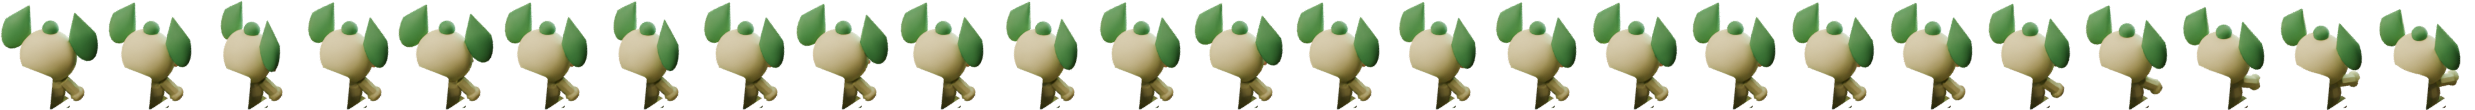
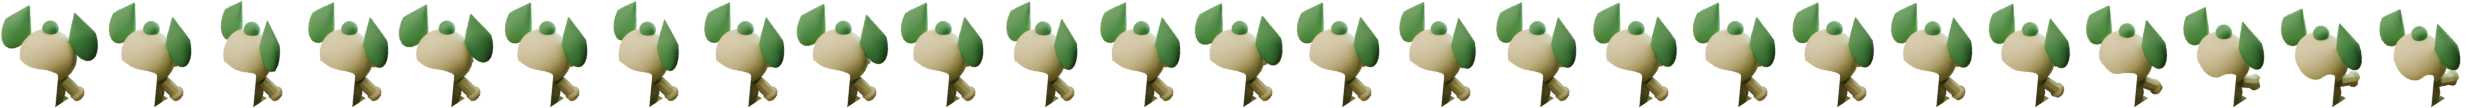
fix: Claaky3D seated on chair, whiteboard spot and sleep blanket

diff --git a/docs/Claaky3D/claaky_etats.py b/docs/Claaky3D/claaky_etats.py
@@ -38,7 +38,7 @@ FLOOR, RUG = .075, .12
 POINTS = {
     'bureau_assis': (.15, 1.28, .88),
     'centre': (.10, -.30, RUG),
-    'tableau_regard': (-1.15, 1.05, RUG),  # en retrait : il regarde le tableau sans le toucher
+    'tableau_regard': (-1.80, 1.05, RUG),  # devant la commode, face au tableau blanc
     # Lit le long du bord avant, tête contre le mur gauche : origine à 0,94 de la tête (sur l'oreiller).
     'lit_couche': (cb.BED[0] + .14, cb.BED[1], 1.02),
 }
@@ -66,7 +66,7 @@ def build_room():
     # Le chevet est déjà construit une seule fois par bed_and_rug().
     cb.collection('09 · Accessoires des états')
     bx, by = cb.BED
-    return cb.cube('Couverture Claaky (sommeil)', (bx + .11, by, 1.02), (1.30, 1.05, .52), 'teal', .2)
+    return cb.cube('Couverture Claaky (sommeil)', (bx + .22, by, .97), (1.40, 1.50, .42), 'teal', .16)
 
 
 def mug_builder():

diff --git a/docs/Claaky3D/claaky_bureau.py b/docs/Claaky3D/claaky_bureau.py
@@ -393,7 +393,7 @@ def desk():
 def chair_and_character():
     global ROOT
     collection('05 · Fauteuil')
-    cx,cy=.15,1.13
+    cx,cy=.15,1.28  # sous Claaky assis (POINTS bureau_assis)
     cyl('Fauteuil vérin',(cx,cy,.42),.065,.60,'metal')
     for i in range(5):
         a=i*math.tau/5

diff --git a/docs/Claaky3D/etat-actuel-claaky3d.md b/docs/Claaky3D/etat-actuel-claaky3d.md
@@ -190,3 +190,11 @@ Non vérifié : les planches réexportées n’ont pas été contrôlées une à
 - La couverture du sommeil est rendue avec le sprite (plus en holdout).
 - Vérifié : aperçus Blender des quatre lieux, export complet, contrôle visuel de `decor.png` et `dormir.png`, 17 tests unitaires, `npx tsc --noEmit`, `npm run build`.
 - Non vérifié : rendu dans Tauri (relancer `npm run tauri dev`), téléportation et fondu à l’écran.
+
+### Contrôle des 7 animations sur le décor (24/10)
+
+Chaque planche a été superposée au décor (première image et image du milieu) :
+- `travail_clavier`, `autorisation`, `erreur`, `cafe` : Claaky était 15 cm devant l'assise et semblait flotter derrière le dossier. Le fauteuil est maintenant centré sous lui (`cx,cy = .15, 1.28`), vérifié de profil et en isométrique.
+- `reflechir_tableau` : il était planté au milieu de la pièce. Il se tient maintenant devant la commode, face au tableau blanc (`tableau_regard = (-1.80, 1.05)`).
+- `dormir` : la couverture formait un pavé flottant. C'est maintenant une couette arrondie sur toute la largeur du lit, avec les mains posées dessus.
+- `attente` : rien à corriger.
